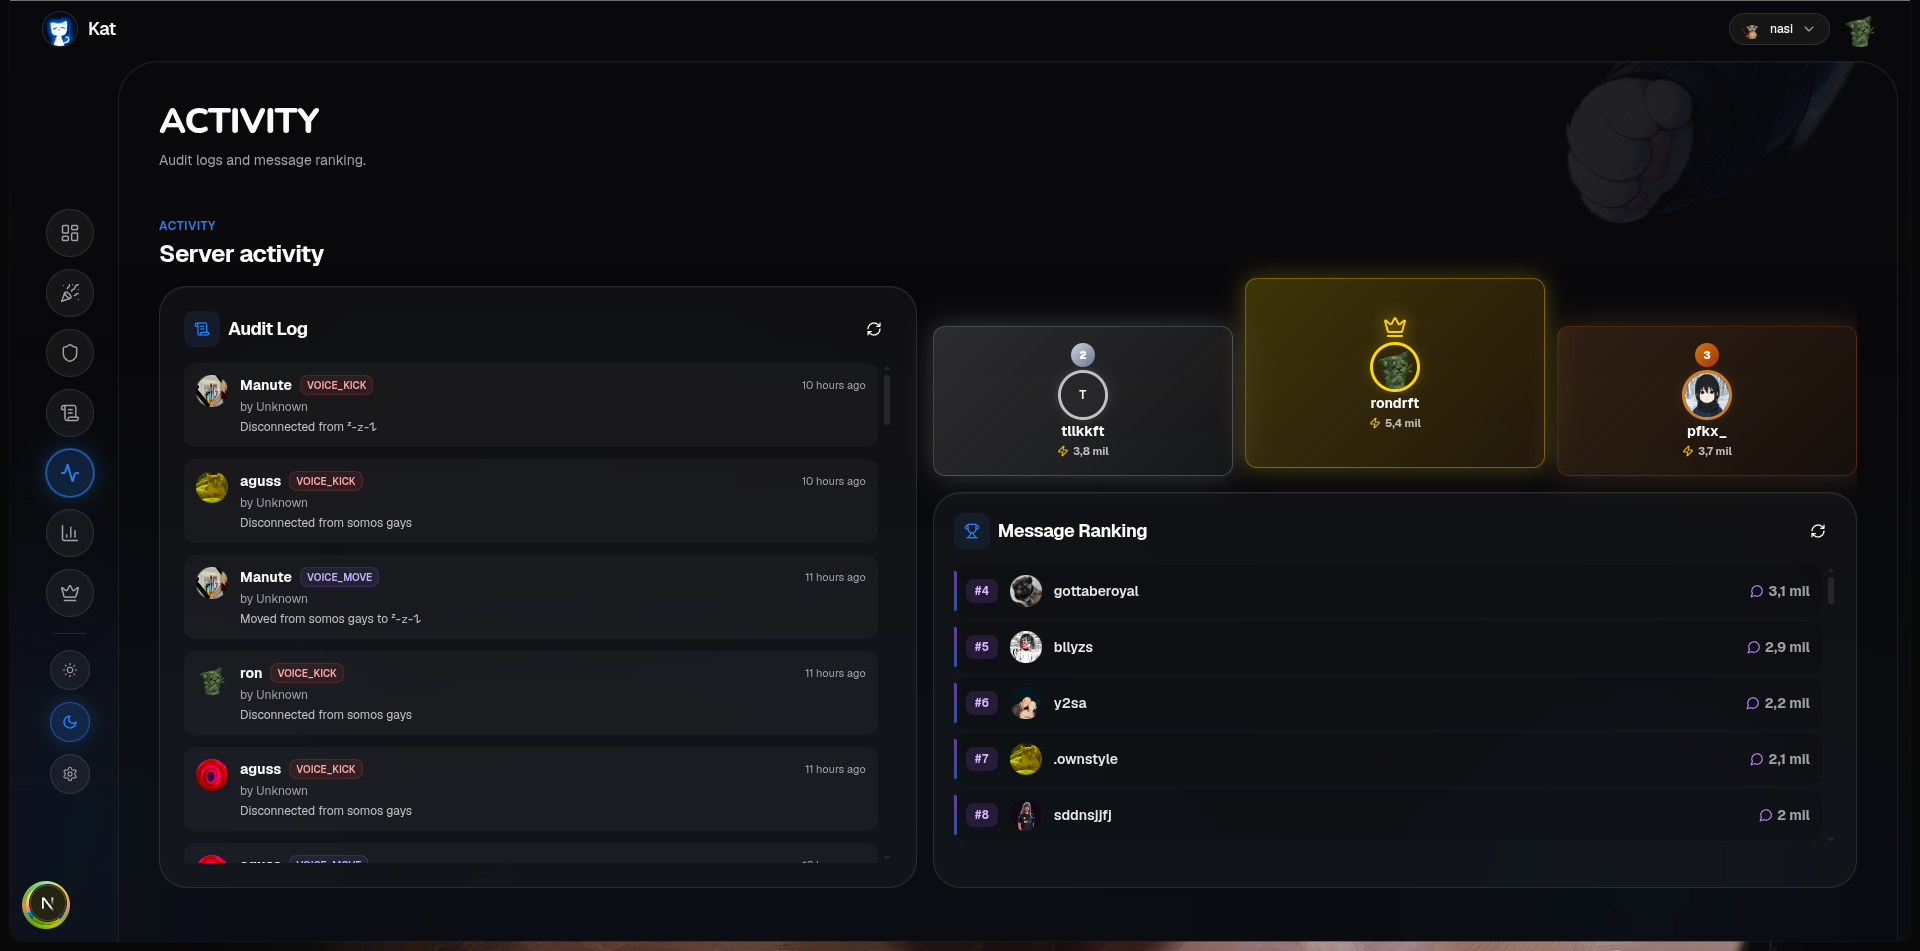
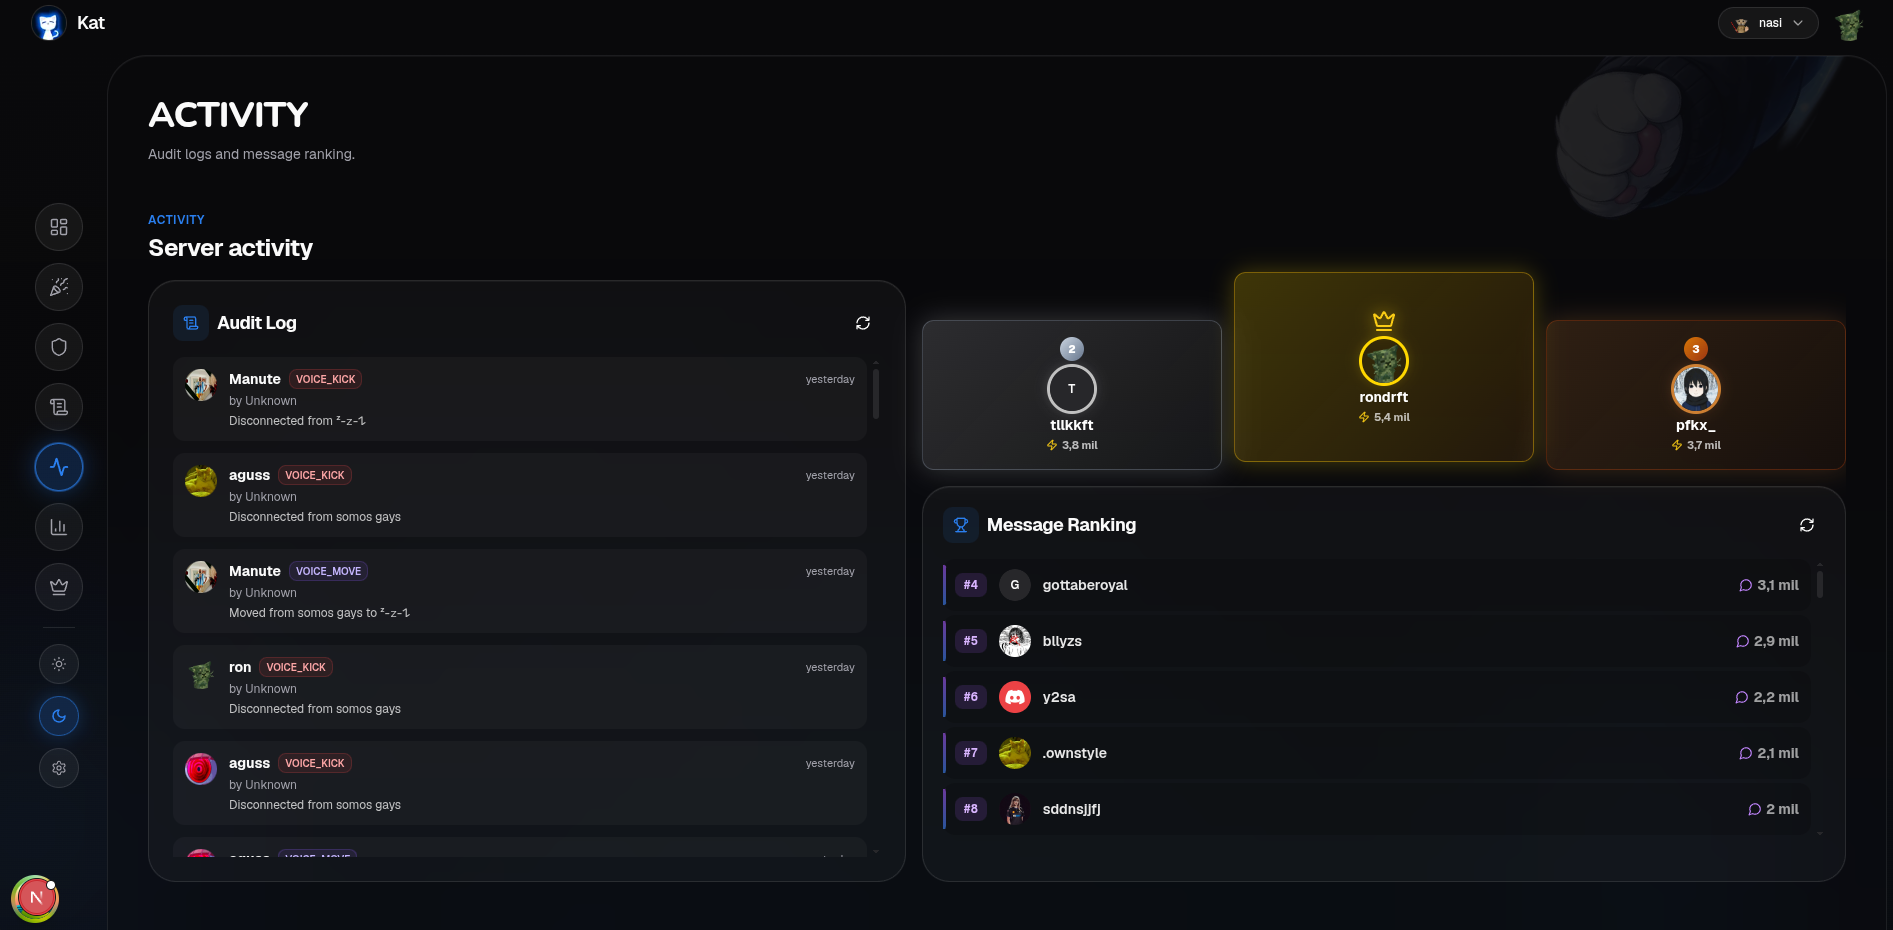
fix(landing): fix community reveal positioning and hero hydration warning
- Rewrote CommunityReveal to use pure CSS sticky for both children. The
  previous approach applied a y transform on top of the second element's
  natural in-flow position (doubling the offset), creating a large empty
  dark gap. Two sticky children in the same relative container produce the
  correct zero-gap reveal with no transforms needed.
- Container height is now measured via ResizeObserver on the community
  section and set to communityHeight + 100vh, giving exactly communityH px
  of scroll range so top.png travels from the community bottom to the top.
- Fixed hydration warning in HeroSection: backgroundColor is now gated
  behind a mounted state so the first render (server + client) is identical.

diff --git a/src/components/landing/community-reveal.tsx b/src/components/landing/community-reveal.tsx
@@ -2,58 +2,46 @@
 
 import { useRef, useEffect, useState } from "react";
 import Image from "next/image";
-import { motion, useScroll, useTransform, useSpring } from "framer-motion";
 import { CommunitySection } from "./community-section";
 
 export function CommunityReveal() {
-  const containerRef = useRef<HTMLDivElement>(null);
+  const communityRef              = useRef<HTMLDivElement>(null);
+  const [communityH, setCommunityH] = useState(0);
 
-  const [vh, setVh] = useState(1080);
   useEffect(() => {
-    setVh(window.innerHeight);
-    const handler = () => setVh(window.innerHeight);
-    window.addEventListener("resize", handler);
-    return () => window.removeEventListener("resize", handler);
+    const el = communityRef.current;
+    if (!el) return;
+    const measure = () => {
+      const h = el.getBoundingClientRect().height;
+      if (h > 0) setCommunityH(h);
+    };
+    const ro = new ResizeObserver(measure);
+    ro.observe(el);
+    measure();
+    return () => ro.disconnect();
   }, []);
 
-  const { scrollYProgress } = useScroll({
-    target: containerRef,
-    offset: ["start start", "end end"],
-  });
-
-  const spring = { stiffness: 55, damping: 24, mass: 0.9 };
-  // top.png slides from 1 viewport below to 0 (fully covering cats).
-  // Starts at 35% scroll progress to let the community section be visible first.
-  const yRaw = useTransform(scrollYProgress, [0.35, 0.9], [vh, 0]);
-  const y = useSpring(yRaw, spring);
-
   return (
-    // 300vh = natural community section scroll time + ~200vh of reveal room
-    <div ref={containerRef} className="relative" style={{ height: "300vh" }}>
-
-      {/* Community (cats) section — stays pinned while top.png reveals */}
-      <div className="sticky top-0 z-10">
+    <div
+      className="relative"
+      style={{ height: communityH > 0 ? `calc(${communityH}px + 100vh)` : "200vh" }}
+    >
+      <div ref={communityRef} className="sticky top-0 z-20">
         <CommunitySection />
       </div>
 
-      {/* top.png — sticky at top, but starts 1vh below viewport via y transform.
-          As scrollYProgress goes 0.35 → 0.9, slides up to cover the cats section.
-          z-20 ensures it layers above the sticky community div. */}
-      <motion.div
-        className="sticky top-0 z-20 w-full"
-        style={{ y }}
-      >
-        <Image
-          src="/top.png"
-          alt=""
-          width={1893}
-          height={930}
-          className="w-screen block"
-          style={{ display: "block", objectFit: "cover" }}
-          sizes="100vw"
-          priority
-        />
-      </motion.div>
+      <div className="sticky top-0 z-30 w-full h-screen">
+        <div className="relative w-full h-full">
+          <Image
+            src="/top.png"
+            alt=""
+            fill
+            className="object-cover"
+            sizes="100vw"
+            priority
+          />
+        </div>
+      </div>
     </div>
   );
 }

diff --git a/src/components/landing/hero-section.tsx b/src/components/landing/hero-section.tsx
@@ -1,6 +1,6 @@
 "use client";
 
-import { useRef, useEffect } from "react";
+import { useRef, useEffect, useState } from "react";
 import Link from "next/link";
 import Image from "next/image";
 import { Sparkles, Command } from "lucide-react";
@@ -17,6 +17,7 @@ import { FluidCanvas } from "./fluid-canvas";
 export function HeroSection() {
   const sectionRef = useRef<HTMLElement>(null);
   const cardRef    = useRef<HTMLDivElement>(null);
+  const [mounted, setMounted] = useState(false);
   const { resolvedTheme } = useTheme();
 
   const { scrollYProgress } = useScroll({
@@ -47,6 +48,8 @@ export function HeroSection() {
     window.addEventListener("mousemove", onMove);
     return () => window.removeEventListener("mousemove", onMove);
   }, [mouseX, mouseY]);
+
+  useEffect(() => { setMounted(true); }, []);
 
   return (
     <section ref={sectionRef} className="relative h-[250vh]">
@@ -91,12 +94,9 @@ export function HeroSection() {
             scale,
             opacity: cardOpacity,
             borderRadius,
-            backgroundColor:
-              resolvedTheme === "dark"
-                ? "#060900"
-                : resolvedTheme === "light"
-                  ? "#ffffff"
-                  : undefined,
+            backgroundColor: mounted
+              ? resolvedTheme === "dark" ? "#060900" : "#ffffff"
+              : undefined,
           }}
         >
           <FluidCanvas isDark={resolvedTheme === "dark"} />